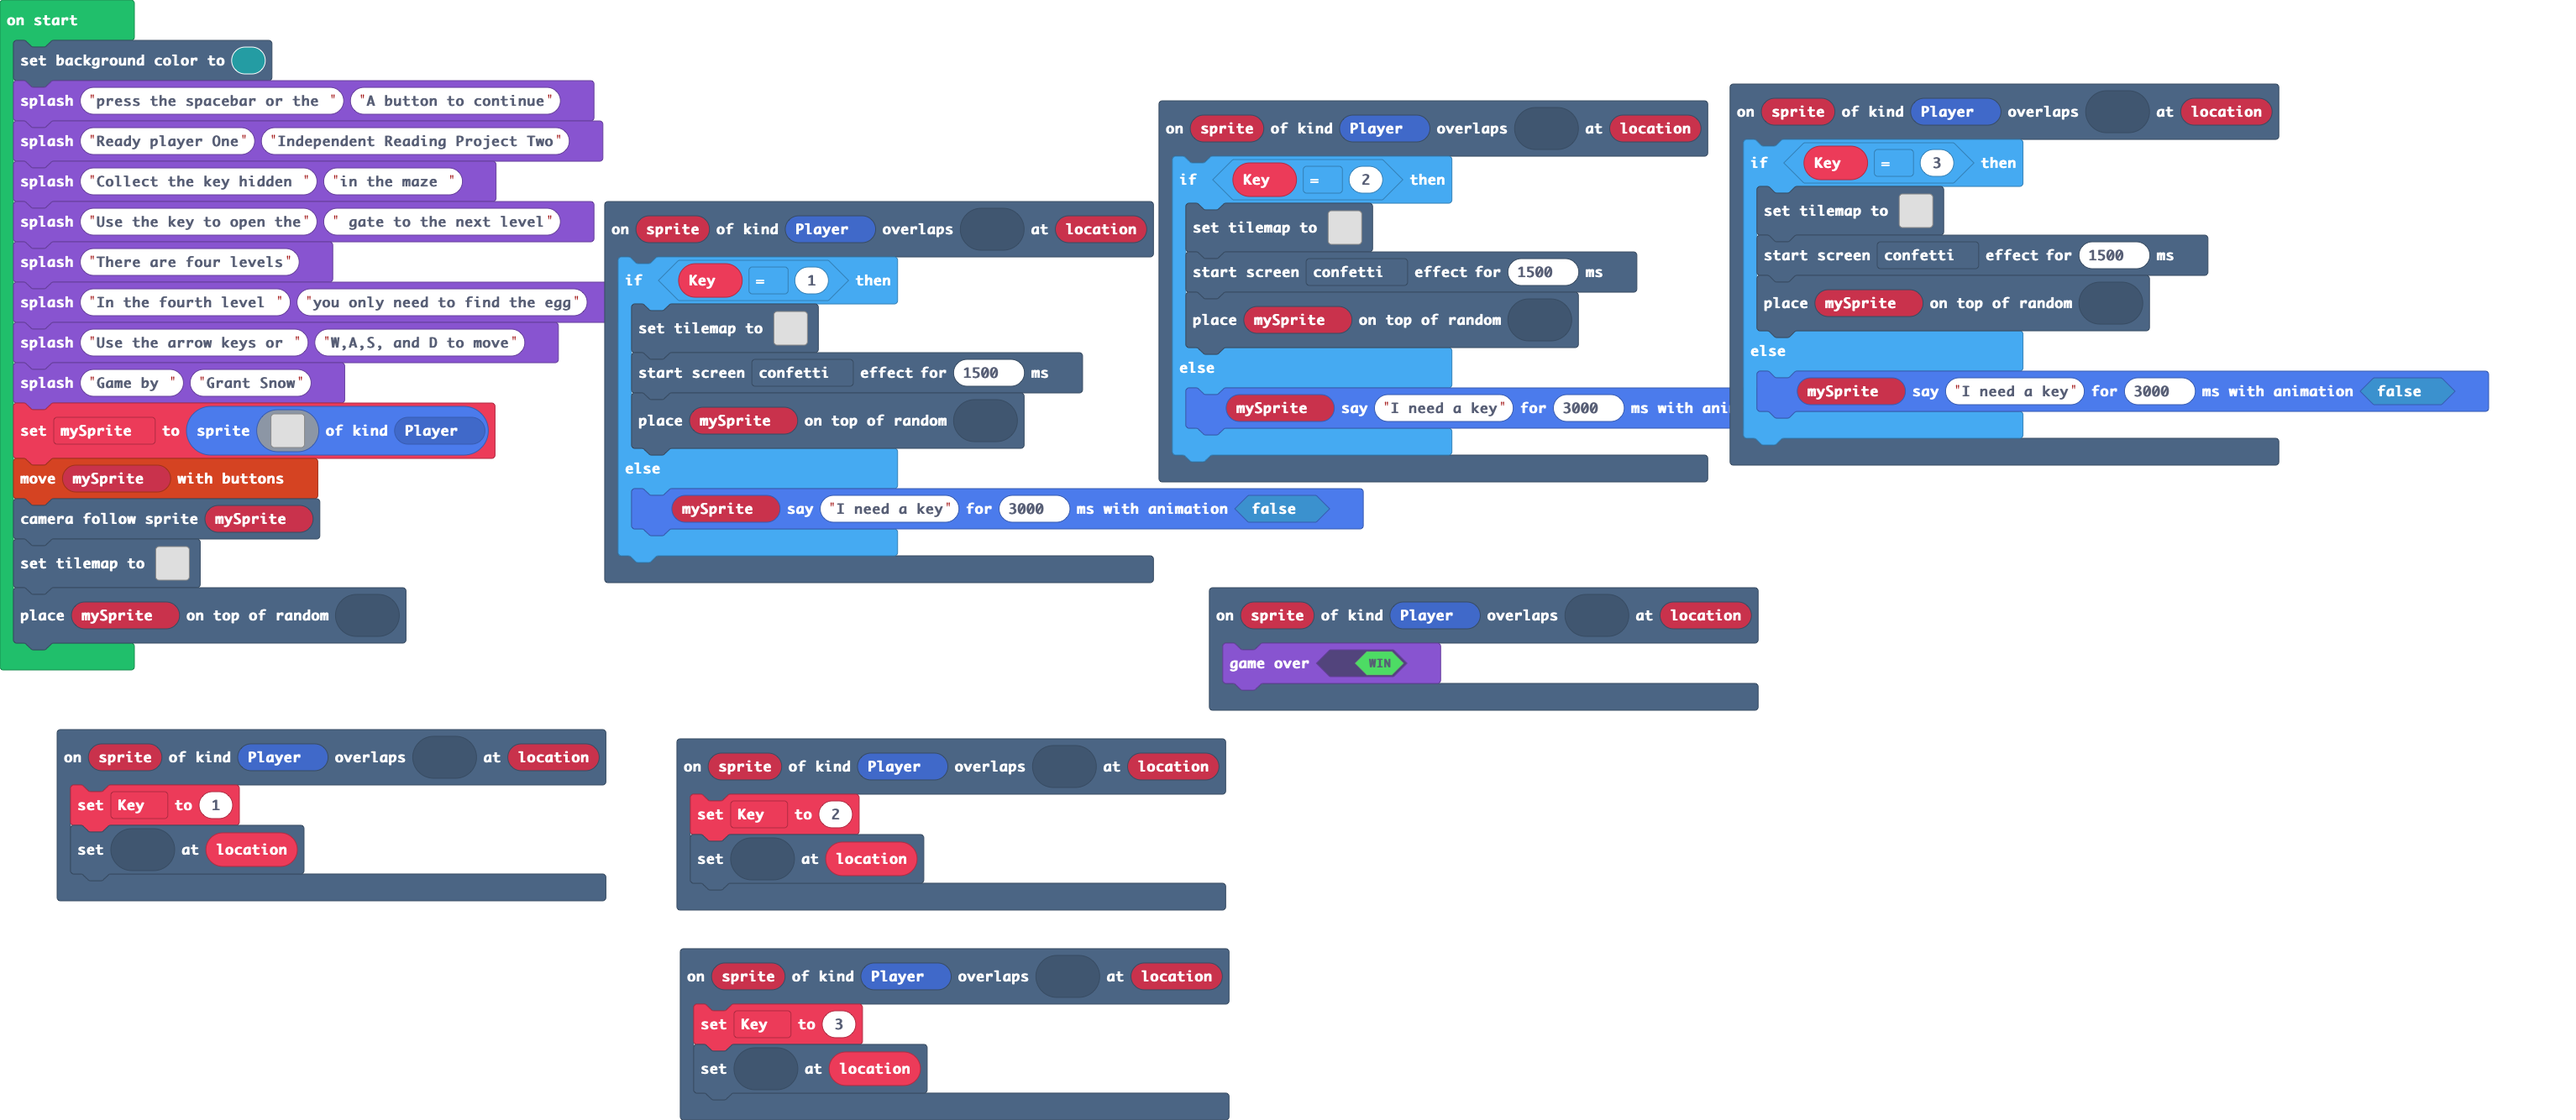
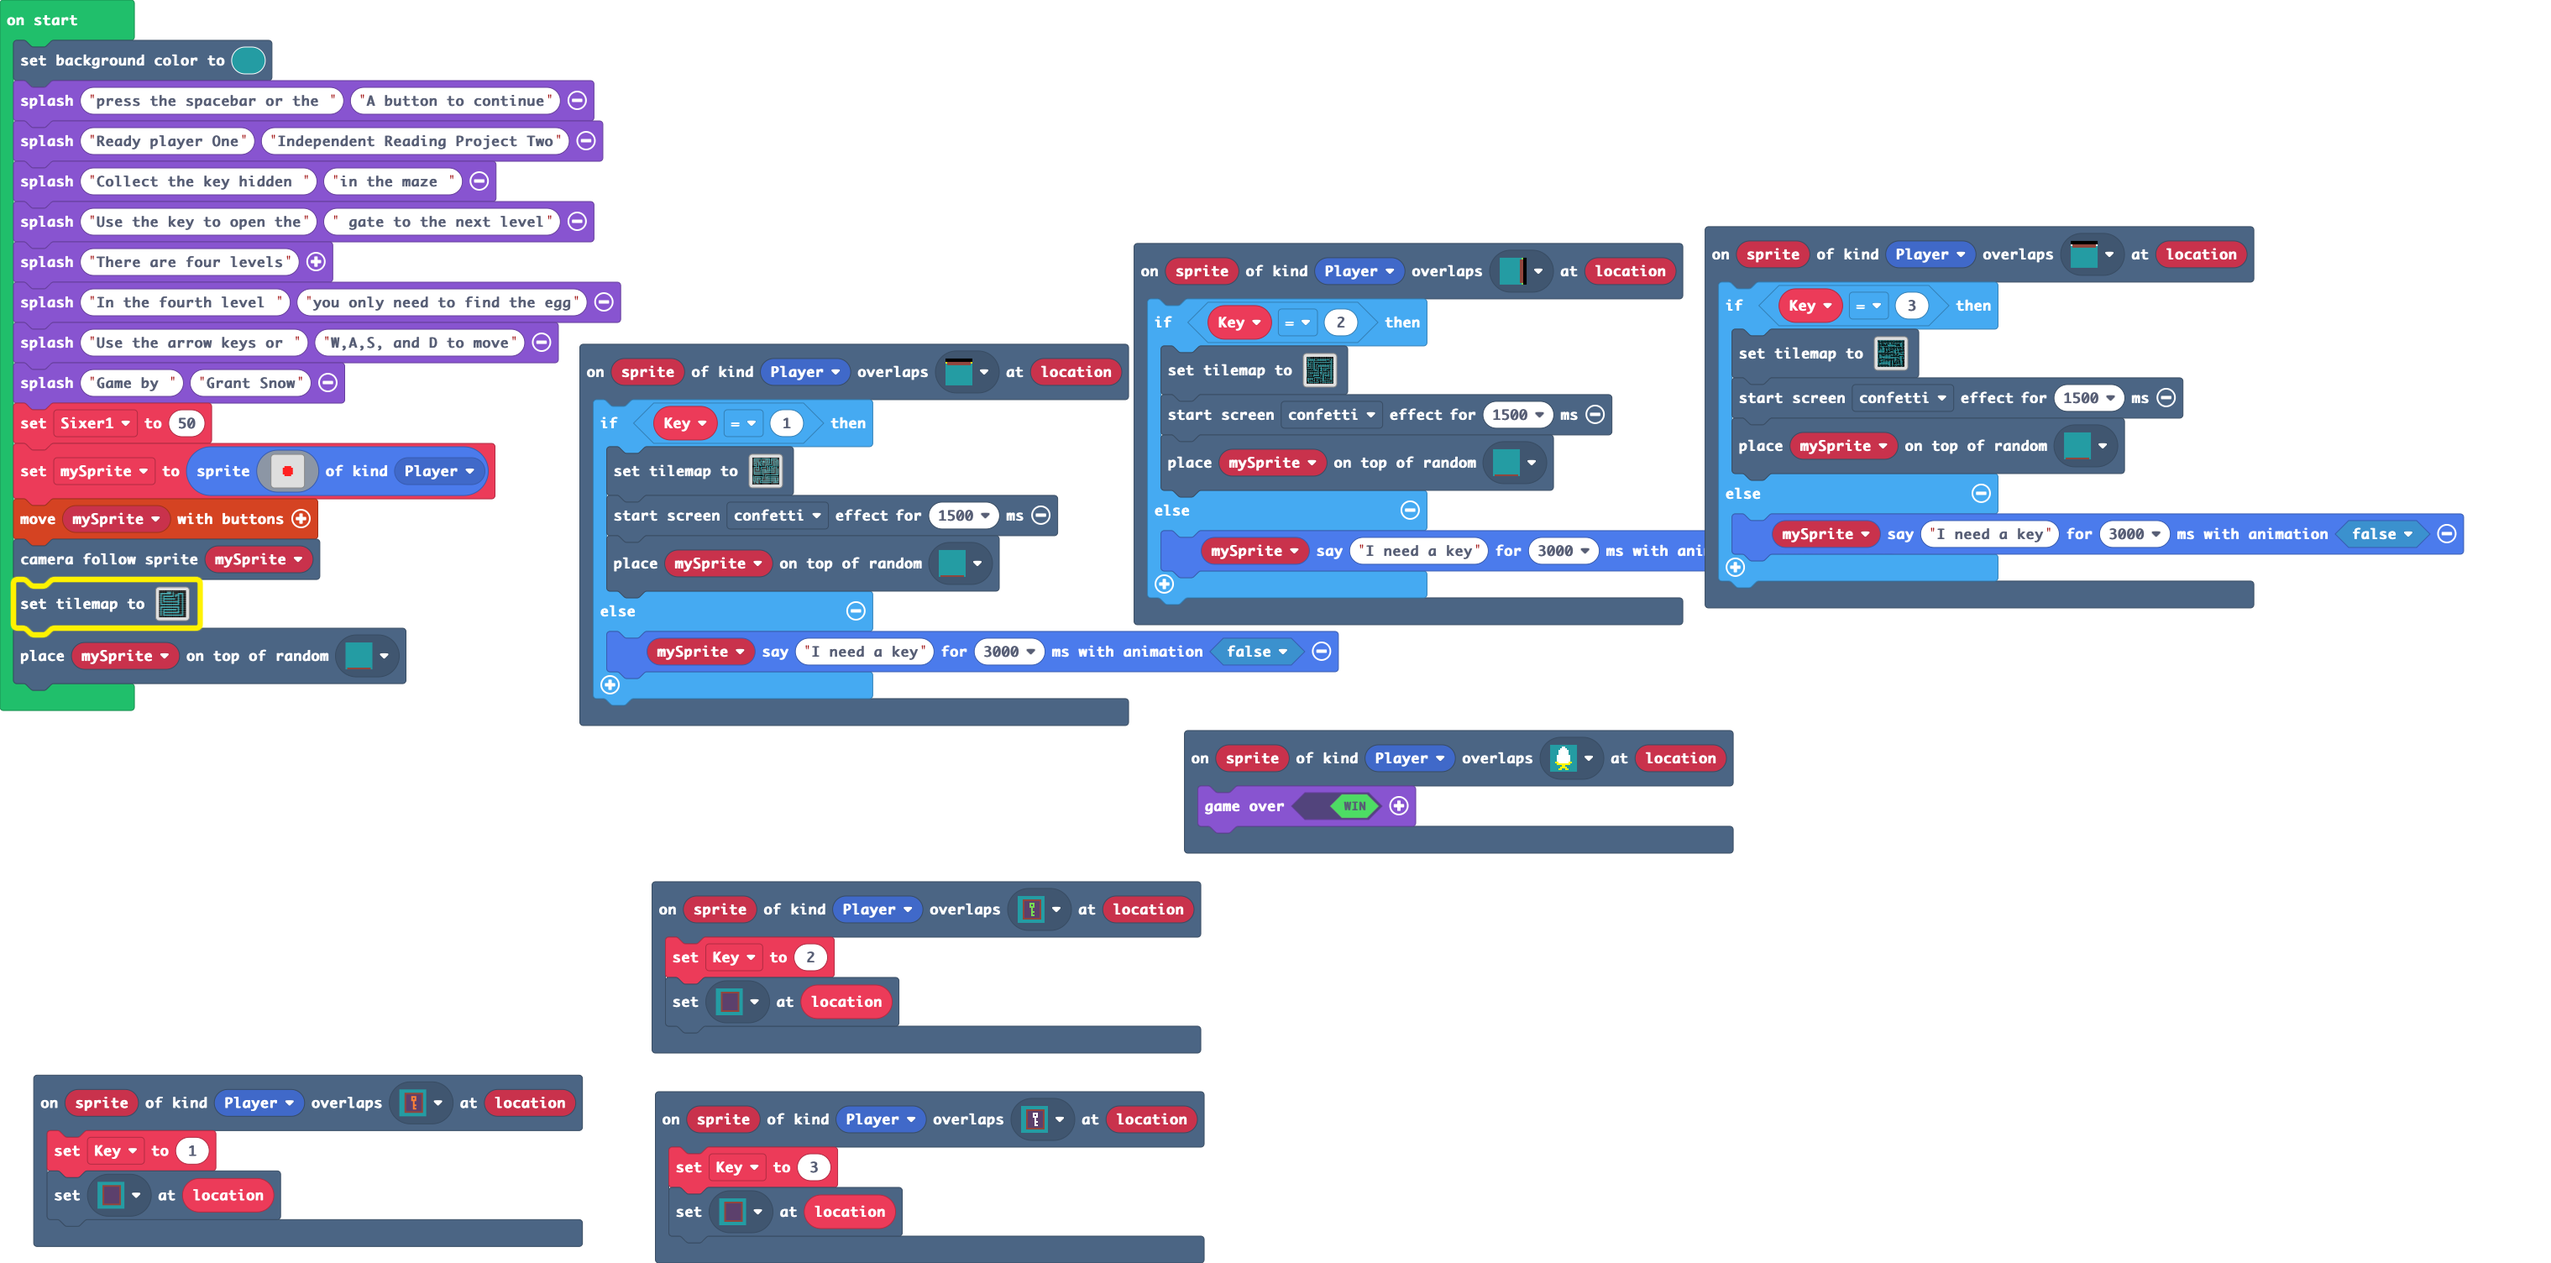
Update main.blocks, main.ts, tilemap.g.jres, tilemap.g.ts

diff --git a/tilemap.g.ts b/tilemap.g.ts
@@ -30,6 +30,8 @@ namespace myTiles {
     export const tile14 = image.ofBuffer(hex``);
     //% fixedInstance jres blockIdentity=images._tile
     export const tile5 = image.ofBuffer(hex``);
+    //% fixedInstance jres blockIdentity=images._tile
+    export const tile15 = image.ofBuffer(hex``);
 
     helpers._registerFactory("tilemap", function(name: string) {
         switch(helpers.stringTrim(name)) {
@@ -90,29 +92,6 @@ namespace myTiles {
 . . . . . . . . . . . . . . . . 
 . . . . . . . . . . . . . . . . 
 `, [myTiles.transparency16,sprites.castle.tileGrass2], TileScale.Sixteen);
-            case "level4":
-            case "level4":return tiles.createTilemap(hex`1400140001010101010101010101010101010101010101010101010101010205020104010101010101010101010202020202020202010201010102020202010101020101010101010101020102020201010201010102010202020202020202010201020101020101010201020101010101010101010102010102010101020102020202020202020201010201010201010102010201010101010101010101020101020101010201020202020202020202020202010102010101020101010101010101010101010201010201010102020202020202020202020202020101020101010101010101010101010101010101010102010101020202020202020202020202020201010201010102010101010101010101010101020101020101010201020202020202020202020102010102010101020102010101010101010101010201010201010102010202020202020202020202020101020101010201020101010101010101010101010102010101030102020202020202020202020202020201010101010101010101010101010101010101010101`, img`
-22222222222222222222
-222222...2.222222222
-2........2.222....22
-2.22222222.2...22.22
-2.2........2.2.22.22
-2.2.2222222222.22.22
-2.2.........22.22.22
-2.2.2222222222.22.22
-2.2............22.22
-2.222222222222.22.22
-2..............22.22
-22222222222222222.22
-2..............22.22
-2.222222222222.22.22
-2.2..........2.22.22
-2.2.2222222222.22.22
-2.2............22.22
-2.2.2222222222222.22
-2.2...............22
-22222222222222222222
-`, [myTiles.transparency16,myTiles.tile1,myTiles.tile2,myTiles.tile4,myTiles.tile8,myTiles.tile10], TileScale.Sixteen);
             case "level5":
             case "level5":return tiles.createTilemap(hex`2300230001010101010101010101010101010101010101010101010101010101010101010101010101020202020202020202020202020202020202020202010202020202020202050101010102010101010101010101010101010101020102010201020101010101010101010101010202020202020201010201010101010202010201020102020202020201020202010101020101010101010101020102020201010101020102010201010101010102010201010102020202020202010102010203020202020202010201020101020202020201020101010101010101010202020201020202010101010101020102010102010101020102010101020202020101020101010101010101020202020202010201010201020102010201010102010102010102020202020202010101010101010101020101020102010201020101010201010201010201020101010201010202020202020202010102010201020102010101020202020101020102020201020101020101010101010101010201020102010201010101010102010102010101010101010102010202010202020202020102010201020101010202020202020201010202020202020201010201020102010101010201020101010101020101010101020101020101010101010101020102010202020202020102010101010102010102010102010102010101010101010102010201010101010101010201020101010201010201010201010202020202020201010201020202020202020101020102010101020101020202020101010101010101020101020102010101010102010102010201010102010101010101010202020202020202020202020202020202010201010201020101010201010101010101010101010101010201010101010101010101020101020102010101020202020202020202020202020202020202020202020202020202010102010201010102010101010101010101010101010101010101010101010101010101010201020101010202020202020202020202020201010101010101010101010101010101020102010101010101010101010101010101020101020202020202020202020202020202020201010201010101010101010101010102010102010101010101010101010101010101010101020102020202020202020202010201010201020202020202020202020202020202010102010201010101010101010201020101020102010101010101010101010101010101010201020102020202020201020102010102020202020202020202020202020101020101020102010101020101020102010201010101010101010101010101010102010202010102010202020202010202010201010101020202020202020202020202020201010201010201010101010201010101020101010101010101010101010101010101020101020101020202020201020101020202020202020202020202020202020202020202020202010101020101020102010102010101010101010101010101010101010101010201010101010102010102020201010202020202020202020202020202020101020202020202020101010201010101040101010101010101010101010101010101010101010101010101010101010101010101010101010101010101010101010101010101010101010101010101`, img`
 22222222222222222222222222222222222
@@ -452,6 +431,105 @@ namespace myTiles {
 . . . . . . . . . . . . . . . . 
 . . . . . . . . . . . . . . . . 
 `, [myTiles.transparency16], TileScale.Sixteen);
+            case "level17":
+            case "level17":return tiles.createTilemap(hex`1000100000000000000000000000000000000000000000000000000000000000000000000000000000000000000000000000000000000000000000000000000000000000000000000000000000000000000000000000000000000000000000000000000000000000000000000000000000000000000000000000000000000000000000000000000000000000000000000000000000000000000000000000000000000000000000000000000000000000000000000000000000000000000000000000000000000000000000000000000000000000000000000000000000000000000000000000000000000000000000000000000000000000000000000000000000000000`, img`
+. . . . . . . . . . . . . . . . 
+. . . . . . . . . . . . . . . . 
+. . . . . . . . . . . . . . . . 
+. . . . . . . . . . . . . . . . 
+. . . . . . . . . . . . . . . . 
+. . . . . . . . . . . . . . . . 
+. . . . . . . . . . . . . . . . 
+. . . . . . . . . . . . . . . . 
+. . . . . . . . . . . . . . . . 
+. . . . . . . . . . . . . . . . 
+. . . . . . . . . . . . . . . . 
+. . . . . . . . . . . . . . . . 
+. . . . . . . . . . . . . . . . 
+. . . . . . . . . . . . . . . . 
+. . . . . . . . . . . . . . . . 
+. . . . . . . . . . . . . . . . 
+`, [myTiles.transparency16], TileScale.Sixteen);
+            case "level18":
+            case "level18":return tiles.createTilemap(hex`1000100000000000000000000000000000000000000000000000000000000000000000000000000000000000000000000000000000000000000000000000000000000000000000000000000000000000000000000000000000000000000000000000000000000000000000000000000000000000000000000000000000000000000000000000000000000000000000000000000000000000000000000000000000000000000000000000000000000000000000000000000000000000000000000000000000000000000000000000000000000000000000000000000000000000000000000000000000000000000000000000000000000000000000000000000000000000`, img`
+. . . . . . . . . . . . . . . . 
+. . . . . . . . . . . . . . . . 
+. . . . . . . . . . . . . . . . 
+. . . . . . . . . . . . . . . . 
+. . . . . . . . . . . . . . . . 
+. . . . . . . . . . . . . . . . 
+. . . . . . . . . . . . . . . . 
+. . . . . . . . . . . . . . . . 
+. . . . . . . . . . . . . . . . 
+. . . . . . . . . . . . . . . . 
+. . . . . . . . . . . . . . . . 
+. . . . . . . . . . . . . . . . 
+. . . . . . . . . . . . . . . . 
+. . . . . . . . . . . . . . . . 
+. . . . . . . . . . . . . . . . 
+. . . . . . . . . . . . . . . . 
+`, [myTiles.transparency16], TileScale.Sixteen);
+            case "level19":
+            case "level19":return tiles.createTilemap(hex`1000100000000000000000000000000000000000000000000000000000000000000000000000000000000000000000000000000000000000000000000000000000000000000000000000000000000000000000000000000000000000000000000000000000000000000000000000000000000000000000000000000000000000000000000000000000000000000000000000000000000000000000000000000000000000000000000000000000000000000000000000000000000000000000000000000000000000000000000000000000000000000000000000000000000000000000000000000000000000000000000000000000000000000000000000000000000000`, img`
+. . . . . . . . . . . . . . . . 
+. . . . . . . . . . . . . . . . 
+. . . . . . . . . . . . . . . . 
+. . . . . . . . . . . . . . . . 
+. . . . . . . . . . . . . . . . 
+. . . . . . . . . . . . . . . . 
+. . . . . . . . . . . . . . . . 
+. . . . . . . . . . . . . . . . 
+. . . . . . . . . . . . . . . . 
+. . . . . . . . . . . . . . . . 
+. . . . . . . . . . . . . . . . 
+. . . . . . . . . . . . . . . . 
+. . . . . . . . . . . . . . . . 
+. . . . . . . . . . . . . . . . 
+. . . . . . . . . . . . . . . . 
+. . . . . . . . . . . . . . . . 
+`, [myTiles.transparency16], TileScale.Sixteen);
+            case "level20":
+            case "level20":return tiles.createTilemap(hex`1000100000000000000000000000000000000000000000000000000000000000000000000000000000000000000000000000000000000000000000000000000000000000000000000000000000000000000000000000000000000000000000000000000000000000000000000000000000000000000000000000000000000000000000000000000000000000000000000000000000000000000000000000000000000000000000000000000000000000000000000000000000000000000000000000000000000000000000000000000000000000000000000000000000000000000000000000000000000000000000000000000000000000000000000000000000000000`, img`
+. . . . . . . . . . . . . . . . 
+. . . . . . . . . . . . . . . . 
+. . . . . . . . . . . . . . . . 
+. . . . . . . . . . . . . . . . 
+. . . . . . . . . . . . . . . . 
+. . . . . . . . . . . . . . . . 
+. . . . . . . . . . . . . . . . 
+. . . . . . . . . . . . . . . . 
+. . . . . . . . . . . . . . . . 
+. . . . . . . . . . . . . . . . 
+. . . . . . . . . . . . . . . . 
+. . . . . . . . . . . . . . . . 
+. . . . . . . . . . . . . . . . 
+. . . . . . . . . . . . . . . . 
+. . . . . . . . . . . . . . . . 
+. . . . . . . . . . . . . . . . 
+`, [myTiles.transparency16], TileScale.Sixteen);
+            case "level4":
+            case "level4":return tiles.createTilemap(hex`1400140001010101010101010101010101010101010101010101010101010205020104010101010101010101010202020202020202010201010102020202010101020101010101010101020102020201010201010102010202020202020202010201020101020101010201020101010101010101010102010102010101020102020202020202020201010201010201010102010201010101010101010101020101020101010201020202020202020202020202010102010101020101010101010101010101010201010201010102020202020202020202020202020101020101010101010101010101010101010101010102010101020202020202020202020202020201010201010102010101010101010101010101020101020101010201020202020202020202020102010102010101020102010101010101010101010201010201010102010202020202020202020202020101020101010201020101010101010101010101010102010101030102020202020202020202020202020201010101010101010101010101010101010101010101`, img`
+22222222222222222222
+222222...2.222222222
+2........2.222....22
+2.22222222.2...22.22
+2.2........2.2.22.22
+2.2.2222222222.22.22
+2.2.........22.22.22
+2.2.2222222222.22.22
+2.2............22.22
+2.222222222222.22.22
+2..............22.22
+22222222222222222.22
+2..............22.22
+2.222222222222.22.22
+2.2..........2.22.22
+2.2.2222222222.22.22
+2.2............22.22
+2.2.2222222222222.22
+2.2...............22
+22222222222222222222
+`, [myTiles.transparency16,myTiles.tile1,myTiles.tile2,myTiles.tile4,myTiles.tile8,myTiles.tile10], TileScale.Sixteen);
         }
         return null;
     })
@@ -487,6 +565,8 @@ namespace myTiles {
             case "tile14":return tile14;
             case "myTile3":
             case "tile5":return tile5;
+            case "myTile12":
+            case "tile15":return tile15;
         }
         return null;
     })

diff --git a/main.ts b/main.ts
@@ -51,6 +51,7 @@ game.splash("There are four levels")
 game.splash("In the fourth level ", "you only need to find the egg")
 game.splash("Use the arrow keys or ", "W,A,S, and D to move")
 game.splash("Game by ", "Grant Snow")
+let Sixer1 = 50
 mySprite = sprites.create(img`
     . . . . . . . . . . . . . . . . 
     . . . . . . . . . . . . . . . . 
